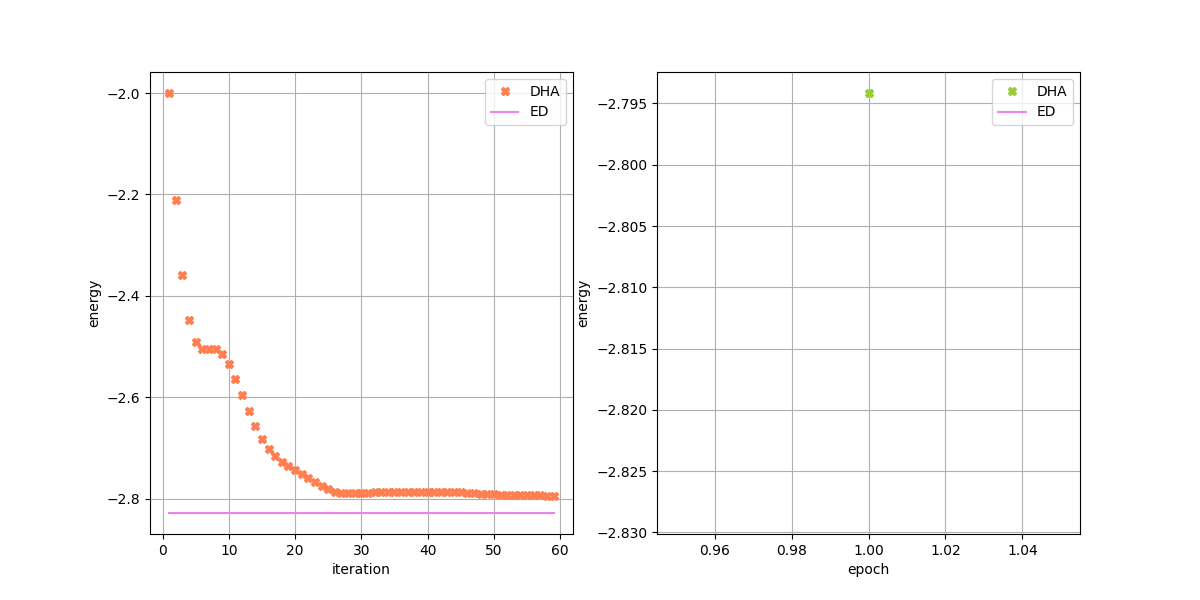
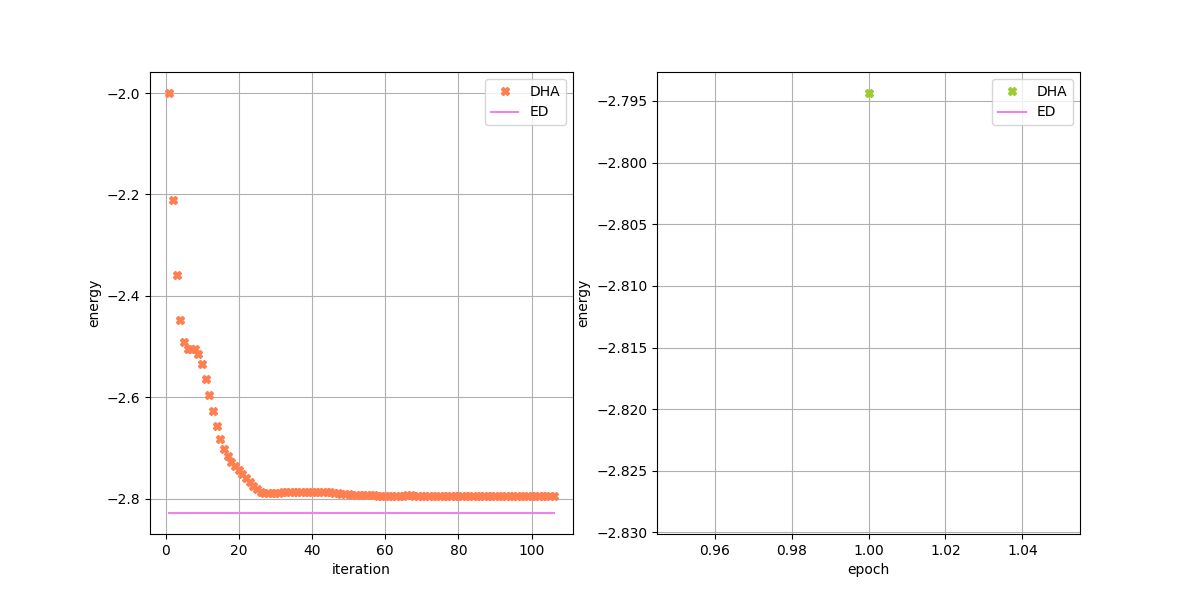
some modification

diff --git a/models/dha_pennylane.py b/models/dha_pennylane.py
@@ -188,7 +188,6 @@ class DHA:
             self.selected_indices[channel] = selected_indices.tolist()
             self.max_grads[channel] = params.grad.cpu().numpy()[selected_indices].tolist()
 
-        self.train_params = nn.ParameterList([nn.Parameter(torch.zeros(len(self.max_grads)), requires_grad=True)]).to(self.device)
         self.train_params = nn.ParameterDict({
             channel: nn.Parameter(torch.zeros(len(gates)), requires_grad=True)
             for channel, gates in self.selected_gates.items()
@@ -242,14 +241,13 @@ class DHA:
 
             # Todo: Transform the Hamiltonian according to the parameters
             for channel, indices in list(self.selected_indices.items())[::-1]:
-                for index in indices:
+                for index, param in zip(indices, self.train_params[channel]):
                     generator = self.qubitOperatorPool[channel][index]
-                    param = self.train_params[channel][index].item()
                     for pauliString, coeff in list(generator.terms.items())[::-1]:
                         if not pauliString:
                             continue
 
-                        theta = param * coeff.real
+                        theta = param.item() * coeff.real
                         pauli = QubitOperator(pauliString)
                         first_term = np.sin(theta) * (-1j / 2) * (self.qubitHamiltonian * pauli - pauli * self.qubitHamiltonian)
                         second_term = 1 / 2 * (1 - np.cos(theta)) * (pauli * self.qubitHamiltonian * pauli - self.qubitHamiltonian)
@@ -257,7 +255,8 @@ class DHA:
                         self.qubitHamiltonian.compress()
 
             self.fermionHamiltonian = reverse_jordan_wigner(self.qubitHamiltonian)
-            self.fermionHamiltonian.compress()
+            self.fermionHamiltonian.compress(1e-6)
+            self.qubitHamiltonian.compress(1e-6)
 
             self.qmlHamiltonian = QubitOperator_to_qmlHamiltonian(self.qubitHamiltonian)
 

diff --git a/operators/fourier.py b/operators/fourier.py
@@ -52,7 +52,10 @@ def fourier_transform(hamiltonian, Nx, Ny):
             for k in range(n_sites):
                 kx, ky = index2tuple(k, spin=False)
                 k_sigma = tuple2index(kx, ky, spin)
-                FT_basis += FermionOperator((k_sigma, ladder), np.exp(-1j * 2 * np.pi * (kx * rx / Nx + ky * ry / Ny)) / np.sqrt(n_sites))
+                if ladder:
+                    FT_basis += FermionOperator((k_sigma, ladder), np.exp(1j * 2 * np.pi * (kx * rx / Nx + ky * ry / Ny)) / np.sqrt(n_sites))
+                else:
+                    FT_basis += FermionOperator((k_sigma, ladder), np.exp(-1j * 2 * np.pi * (kx * rx / Nx + ky * ry / Ny)) / np.sqrt(n_sites))
 
             FT_term *= FT_basis
         FT_hamiltonian += FT_term * coeff
